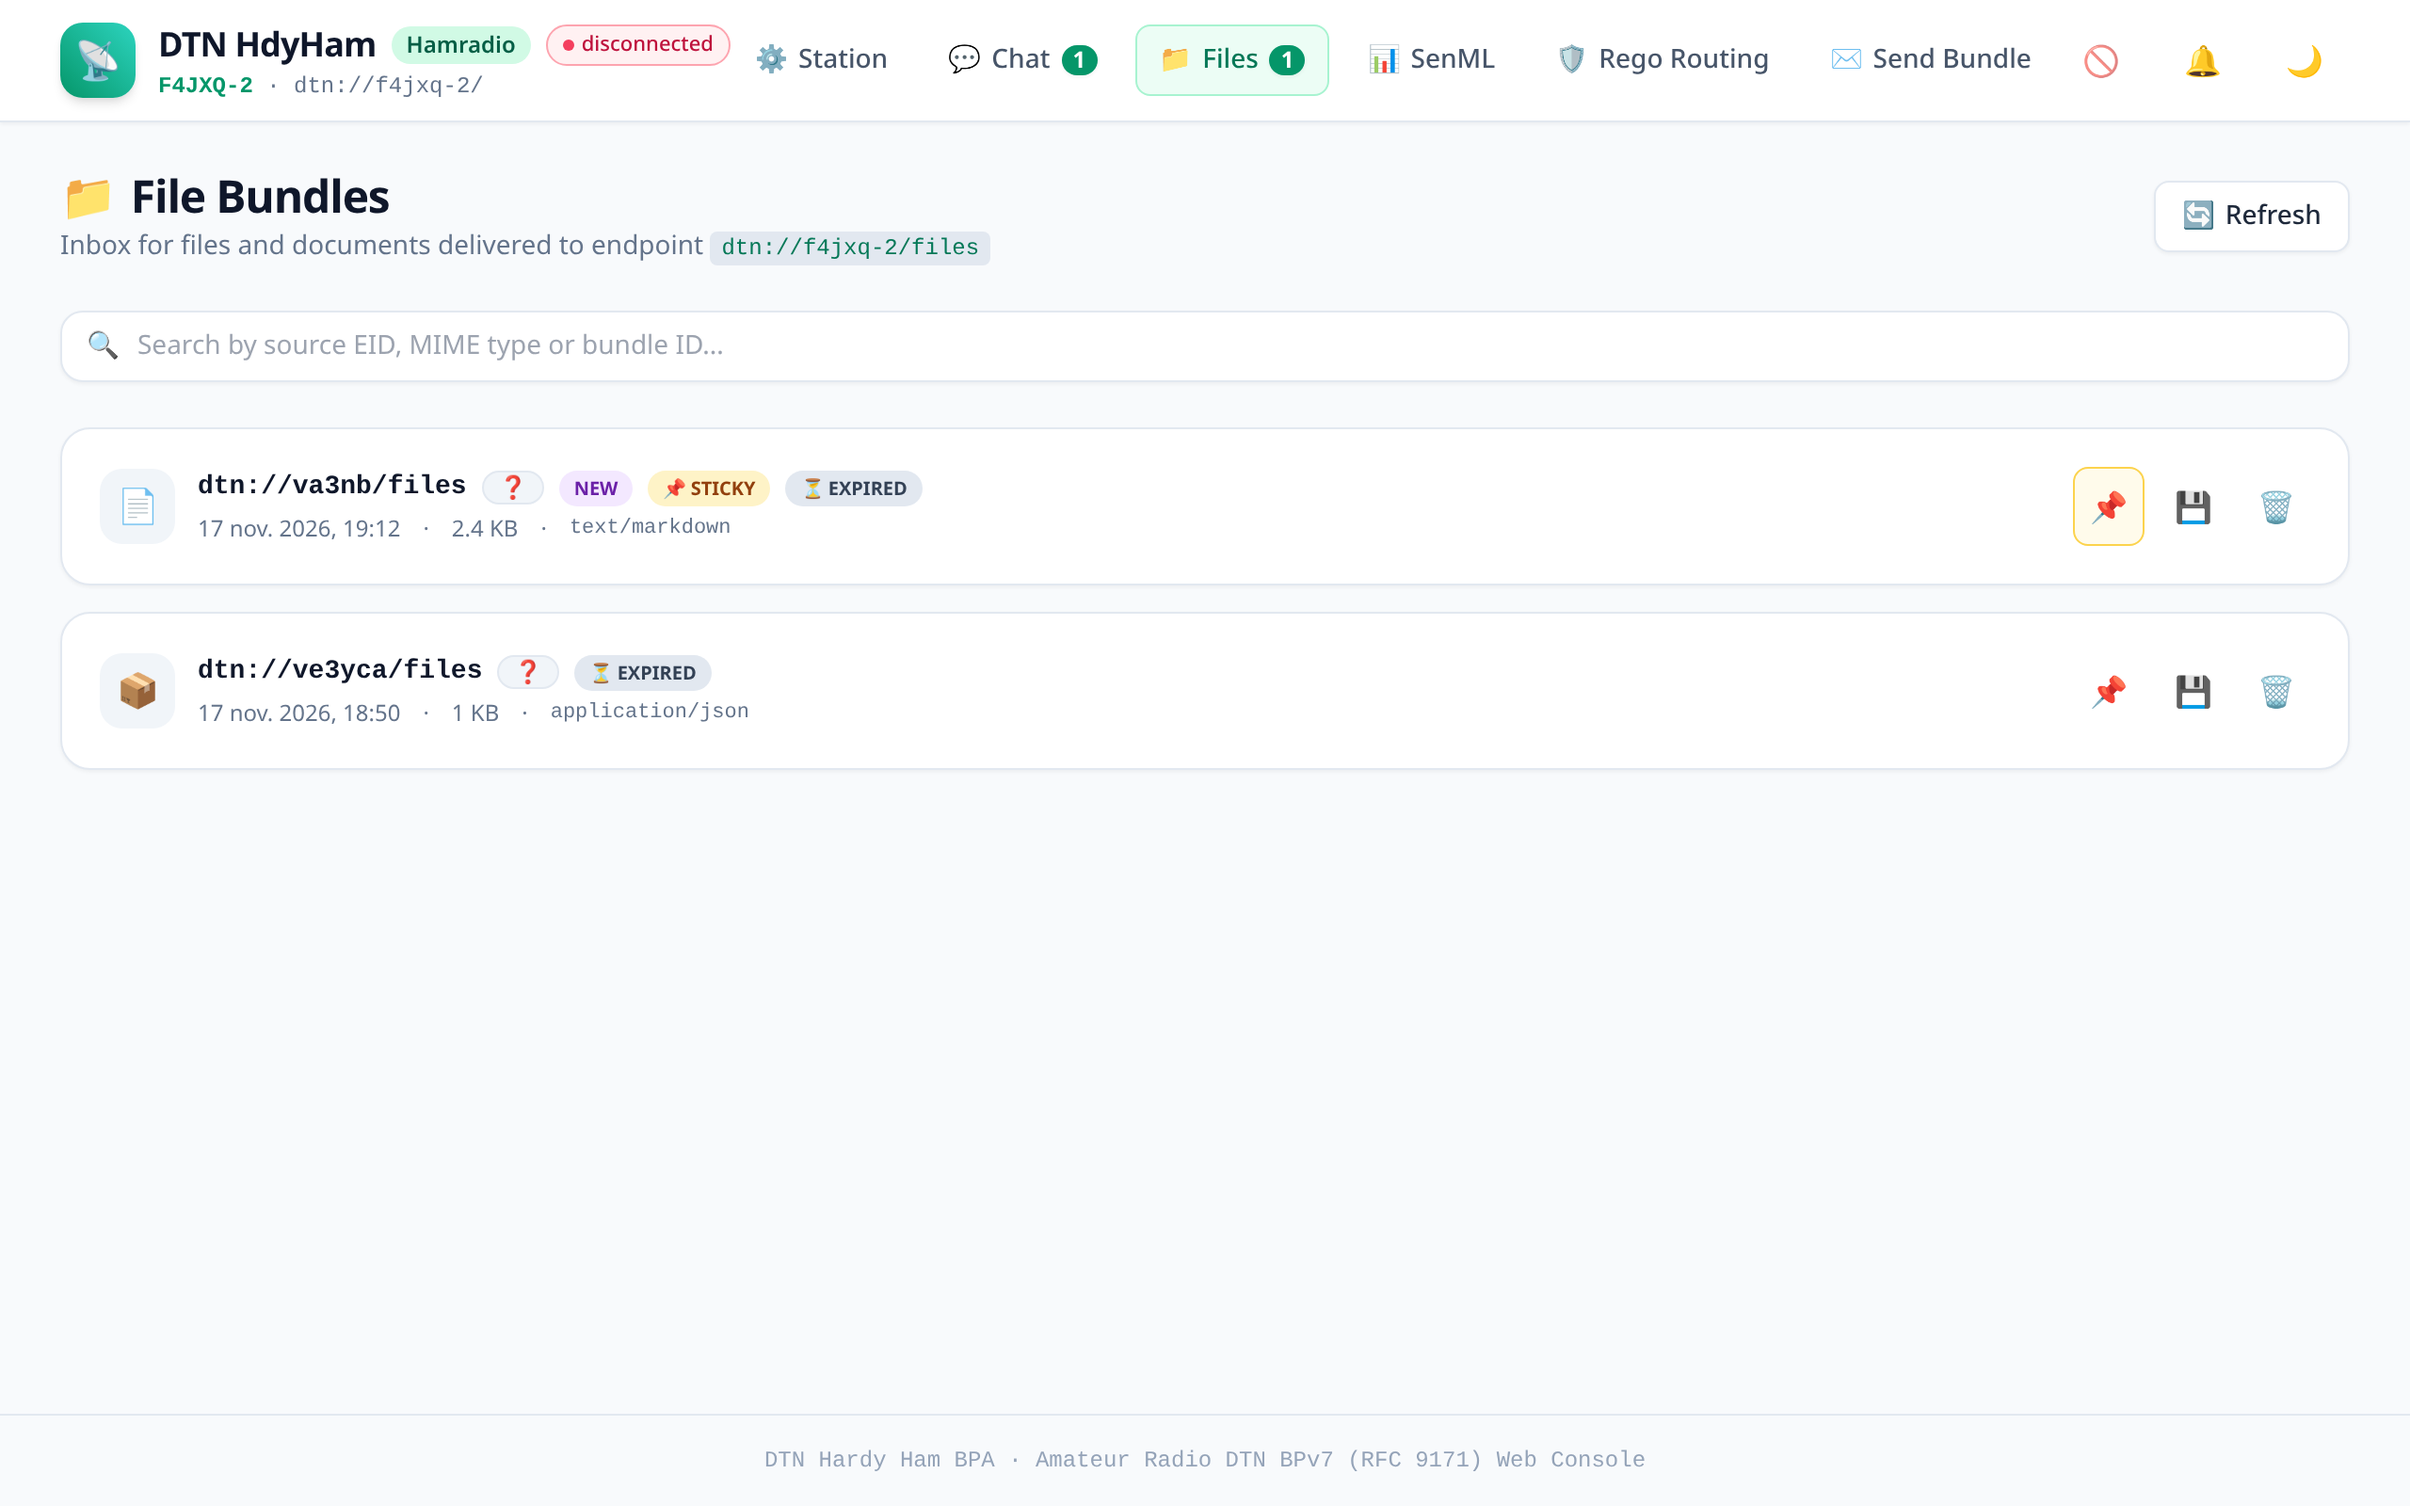
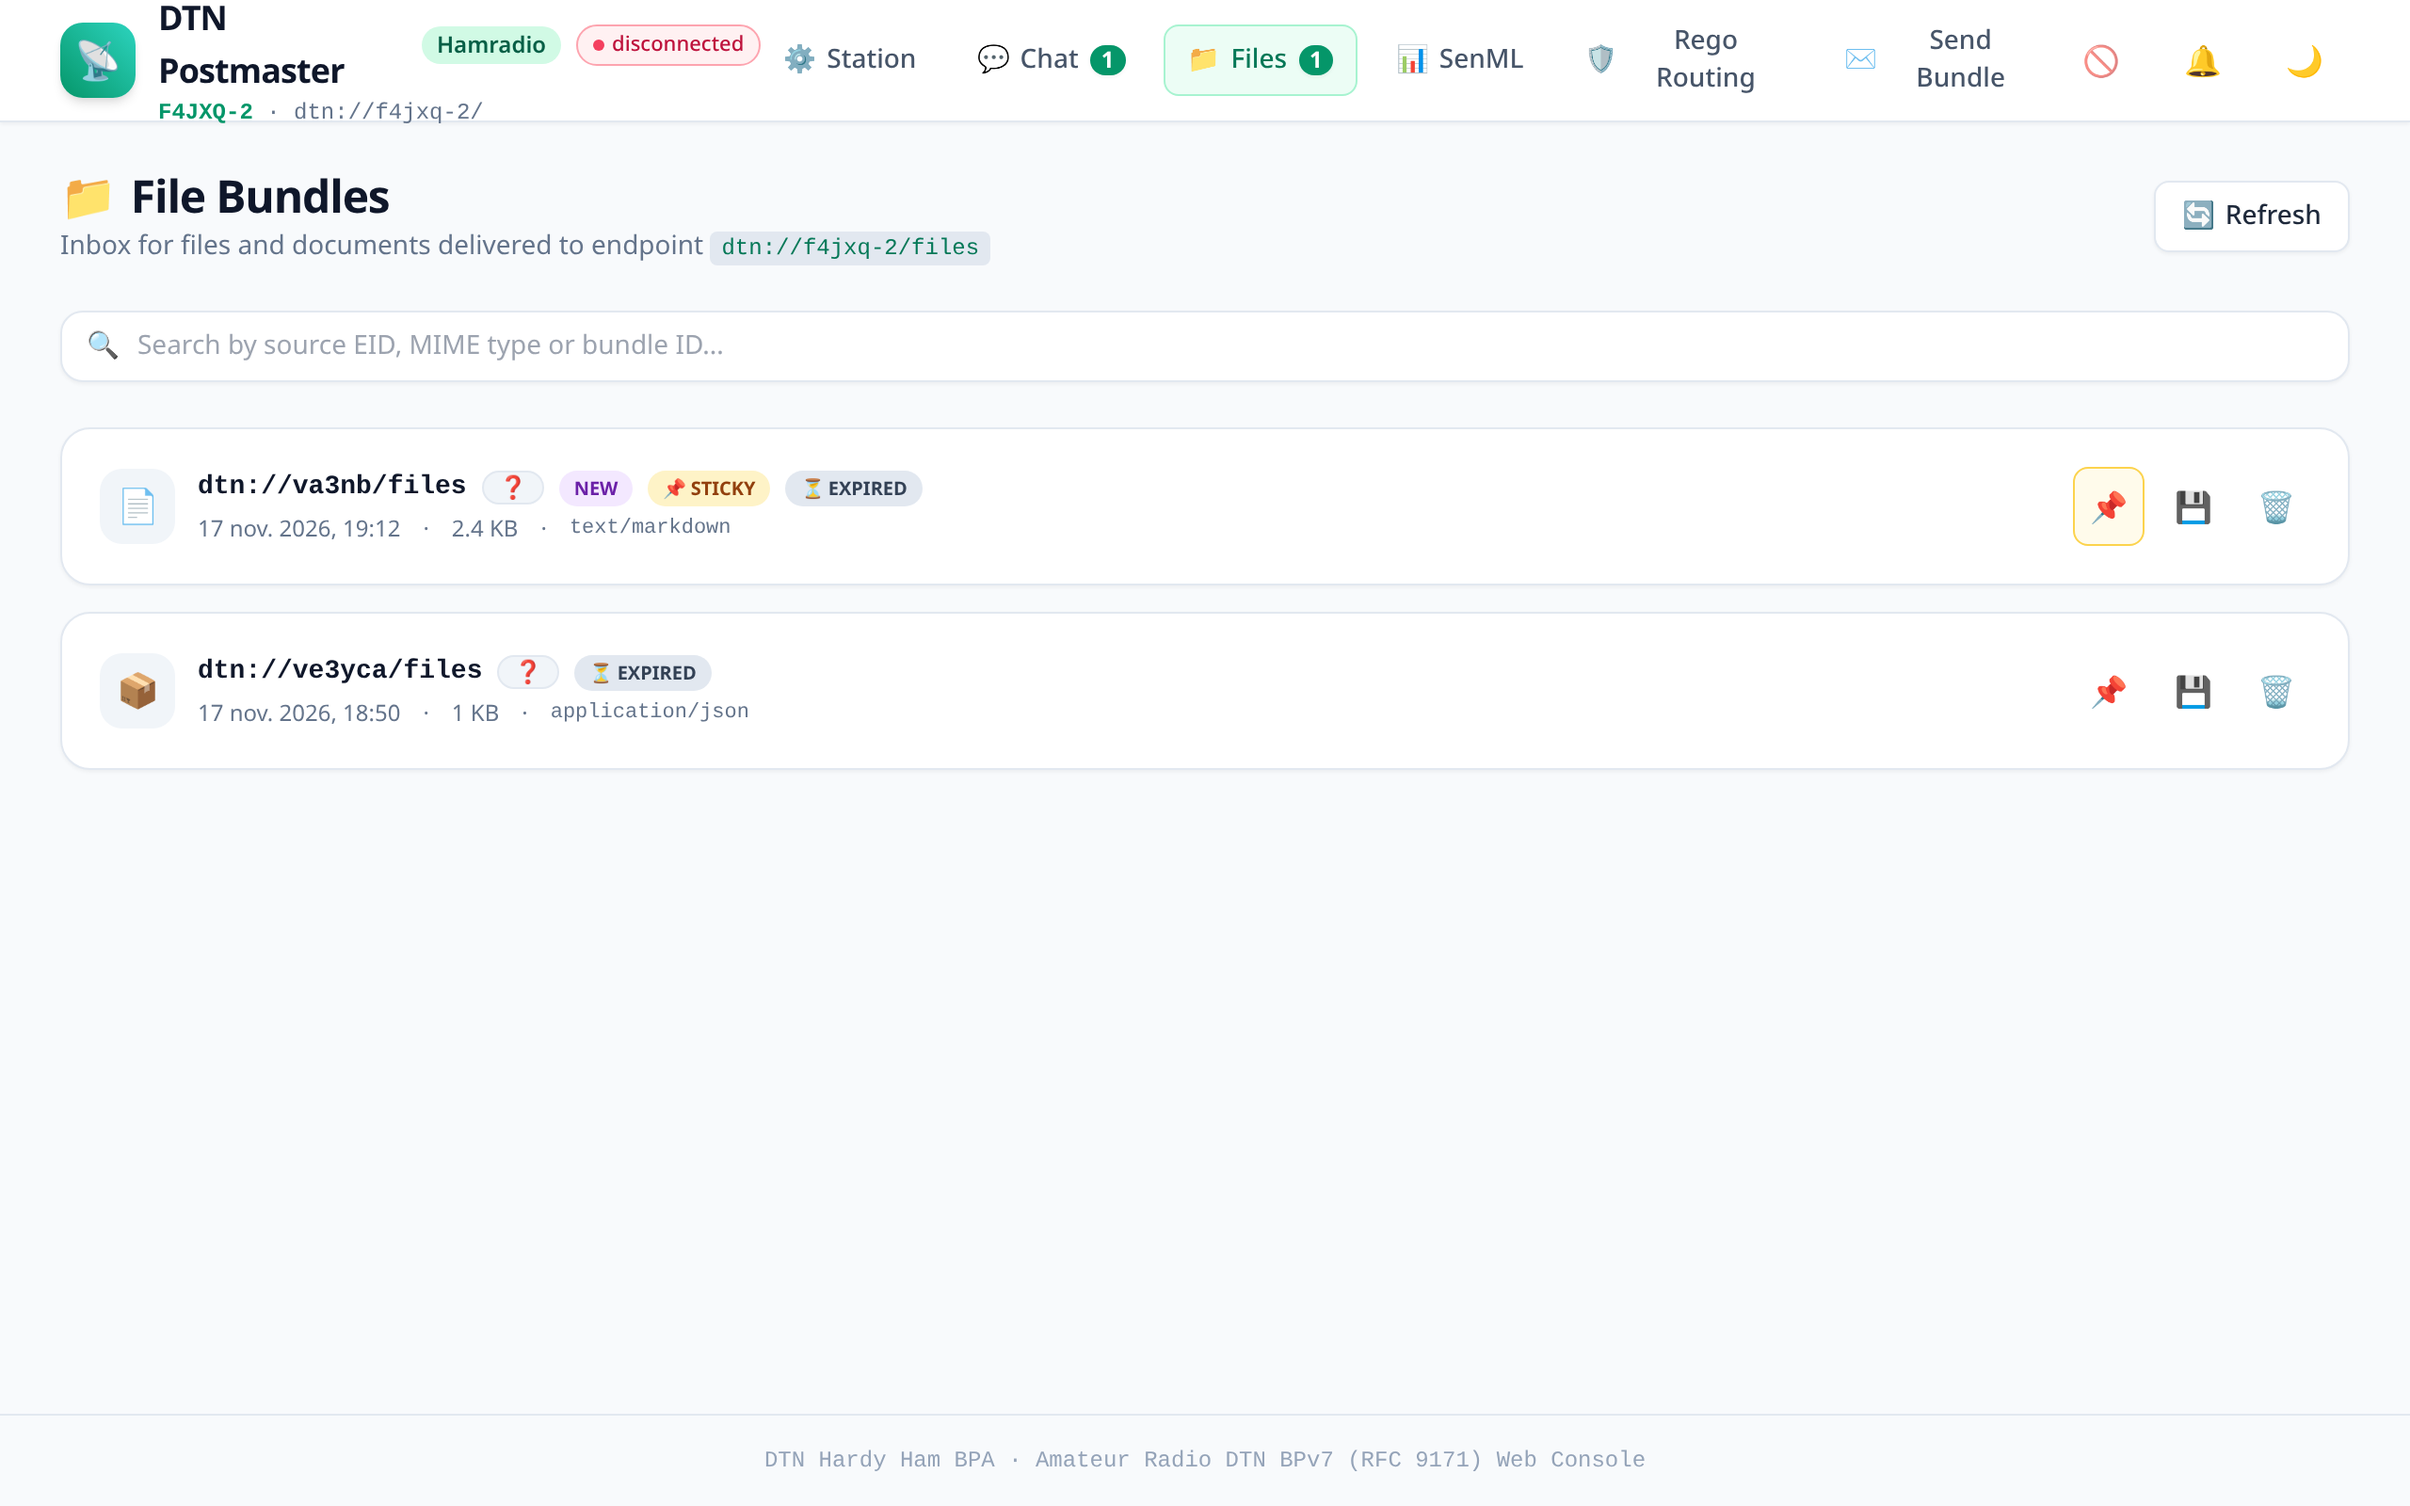
feat: update default config path to ~/.config/dtnpm and branding to DTN Postmaster

Changed region(s): [[0.0625, 0.0, 0.3125, 0.0938], [0.4062, 0.0, 0.8438, 0.0625], [0.3125, 0.0312, 0.375, 0.0625]]

diff --git a/src/wizard.rs b/src/wizard.rs
@@ -39,7 +39,7 @@ pub fn contract_tilde(path: &Path) -> String {
 
 /// Returns the standard default path for the configuration file.
 pub fn default_config_save_path() -> PathBuf {
-    let local_names = ["dtn-hdy-ham.toml", "dtn-hdy-ham.yaml", "config.yaml"];
+    let local_names = ["dtnpm.toml", "dtnpm.yaml", "config.toml", "config.yaml"];
     for name in local_names {
         let p = PathBuf::from(name);
         if p.exists() {
@@ -47,10 +47,7 @@ pub fn default_config_save_path() -> PathBuf {
         }
     }
     if let Some(base_dirs) = directories::BaseDirs::new() {
-        base_dirs
-            .config_dir()
-            .join("dtn-hdy-ham")
-            .join("config.yaml")
+        base_dirs.config_dir().join("dtnpm").join("config.yaml")
     } else {
         PathBuf::from("config.yaml")
     }
@@ -168,7 +165,7 @@ next-hop = "dtn://f4jxq/""#
             };
 
             format!(
-                r#"# dtn-hdy-ham configuration generated by wizard
+                r#"# dtnpm configuration generated by wizard
 callsign = "{escaped_callsign}"
 node-id = "{escaped_node_id}"
 
@@ -238,7 +235,7 @@ bundle-age-required = false
             };
 
             format!(
-                r#"# dtn-hdy-ham configuration generated by wizard
+                r#"# dtnpm configuration generated by wizard
 callsign: "{escaped_callsign}"
 node-id: "{escaped_node_id}"
 
@@ -271,7 +268,7 @@ rfc9171-validity:
 /// Returns the standard default storage directory for bundles and metadata.
 pub fn default_storage_dir() -> PathBuf {
     if let Some(base_dirs) = directories::BaseDirs::new() {
-        base_dirs.data_local_dir().join("dtn-hdy-ham")
+        base_dirs.data_local_dir().join("dtnpm")
     } else {
         PathBuf::from("./data")
     }
@@ -366,7 +363,7 @@ pub fn run_wizard<R: BufRead, W: Write>(
     )?;
     writeln!(
         writer,
-        "      Welcome to dtn-hdy-ham - First-time Configuration Wizard"
+        "   Welcome to DTN Postmaster (dtnpm) - First-time Configuration Wizard"
     )?;
     writeln!(
         writer,
@@ -585,7 +582,7 @@ pub fn run_interactive_wizard(suggested_save_path: Option<PathBuf>) -> Result<Ha
     let mut stdout = std::io::stdout();
     run_wizard(&mut stdin, &mut stdout, suggested_save_path).map_err(|e| {
         anyhow!(
-            "{e}\n\nTo configure dtn-hdy-ham manually:\n  - Provide a configuration file with 'dtn-hdy-ham --config <FILE>'\n  - Or generate an example template with 'dtn-hdy-ham generate-config > config.yaml'"
+            "{e}\n\nTo configure dtnpm manually:\n  - Provide a configuration file with 'dtnpm --config <FILE>'\n  - Or generate an example template with 'dtnpm generate-config > config.yaml'"
         )
     })
 }

diff --git a/src/main.rs b/src/main.rs
@@ -154,7 +154,7 @@ node-id: "dtn://n0call/"
 
 # Storage settings (bundle storage directory & embedded SQLite database)
 storage:
-  data-dir: "~/.local/share/dtn-hdy-ham"
+  data-dir: "~/.local/share/dtnpm"
   in-memory: false
 
 # Local gRPC endpoint for CLI tools (dtnsend, dtnprint, dtnping, etc.)

diff --git a/QUICKSTART.md b/QUICKSTART.md
@@ -1,6 +1,6 @@
-# Quickstart Guide — `dtn-hdy-ham`
+# Quickstart Guide — `dtnpm` (DTN Postmaster)
 
-Welcome to **dtn-hdy-ham**, the Delay-Tolerant Networking (DTN) BPv7 Bundle Processing Agent tailored for amateur radio operators and field communication.
+Welcome to **DTN Postmaster** (`dtnpm`), the Delay-Tolerant Networking (DTN) BPv7 Bundle Processing Agent tailored for amateur radio operators and field communication.
 
 This release package contains static, self-contained binaries that require no external runtime dependencies.
 
@@ -9,7 +9,7 @@ This release package contains static, self-contained binaries that require no ex
 ## 1. Package Contents
 
 - `bin/`:
-  - `dtn-hdy-ham`: Main DTN BPv7 node, Web UI server, and convergence layer engine.
+  - `dtnpm`: Main DTN BPv7 node, Web UI server, and convergence layer engine.
   - `dtnsend`: Command-line bundle sending utility.
   - `dtnprint`: Command-line bundle receiving / logging utility.
   - `dtnfiles`: Command-line file distribution and retrieval tool.
@@ -17,7 +17,7 @@ This release package contains static, self-contained binaries that require no ex
 - `web/dist/`: Precompiled static web assets for the web dashboard.
 - `config.example.toml`: Documented configuration template (TOML format).
 - `config.example.yaml`: Documented configuration template (YAML format).
-- `dtn-hdy-ham.service`: Systemd service unit template for Linux systems.
+- `dtnpm.service`: Systemd service unit template for Linux systems.
 
 ---
 
@@ -26,7 +26,7 @@ This release package contains static, self-contained binaries that require no ex
 ### Step 2.1 — Configuration
 You can either run the interactive setup wizard:
 ```bash
-./bin/dtn-hdy-ham init
+./bin/dtnpm init
 ```
 Or copy the reference configuration and customize your callsign:
 ```bash
@@ -36,7 +36,7 @@ cp config.example.toml config.toml
 
 ### Step 2.2 — Start the Node
 ```bash
-./bin/dtn-hdy-ham -c config.toml
+./bin/dtnpm -c config.toml
 ```
 
 ### Step 2.3 — Open the Web Dashboard
@@ -53,7 +53,7 @@ From the Web Dashboard, you can:
 
 ## 3. Using the Bundled CLI Tools
 
-All bundled CLI tools connect automatically to the local `dtn-hdy-ham` gRPC interface (port 50051).
+All bundled CLI tools connect automatically to the local `dtnpm` gRPC interface (port 50051).
 
 ### Send a Text Message or File (`dtnsend`)
 ```bash
@@ -89,28 +89,28 @@ All bundled CLI tools connect automatically to the local `dtn-hdy-ham` gRPC inte
 
 ## 4. Running as a Background Systemd Service (Linux)
 
-To run `dtn-hdy-ham` continuously on Linux (e.g. Raspberry Pi or server):
+To run `dtnpm` continuously on Linux (e.g. Raspberry Pi or server):
 
-1. Copy the binaries to your path (or keep them in `/opt/dtn-hdy-ham/bin`):
+1. Copy the binaries to your path (or keep them in `/opt/dtnpm/bin`):
    ```bash
    sudo cp bin/* /usr/local/bin/
    ```
 
 2. Copy and customize configuration:
    ```bash
-   sudo mkdir -p /etc/dtn-hdy-ham
-   sudo cp config.example.toml /etc/dtn-hdy-ham/config.toml
-   sudo nano /etc/dtn-hdy-ham/config.toml
+   sudo mkdir -p /etc/dtnpm
+   sudo cp config.example.toml /etc/dtnpm/config.toml
+   sudo nano /etc/dtnpm/config.toml
    ```
 
 3. Install the systemd unit:
    ```bash
-   sudo cp dtn-hdy-ham.service /etc/systemd/system/
+   sudo cp dtnpm.service /etc/systemd/system/
    sudo systemctl daemon-reload
-   sudo systemctl enable --now dtn-hdy-ham
+   sudo systemctl enable --now dtnpm
    ```
 
 4. View logs:
    ```bash
-   journalctl -u dtn-hdy-ham -f
+   journalctl -u dtnpm -f
    ```
